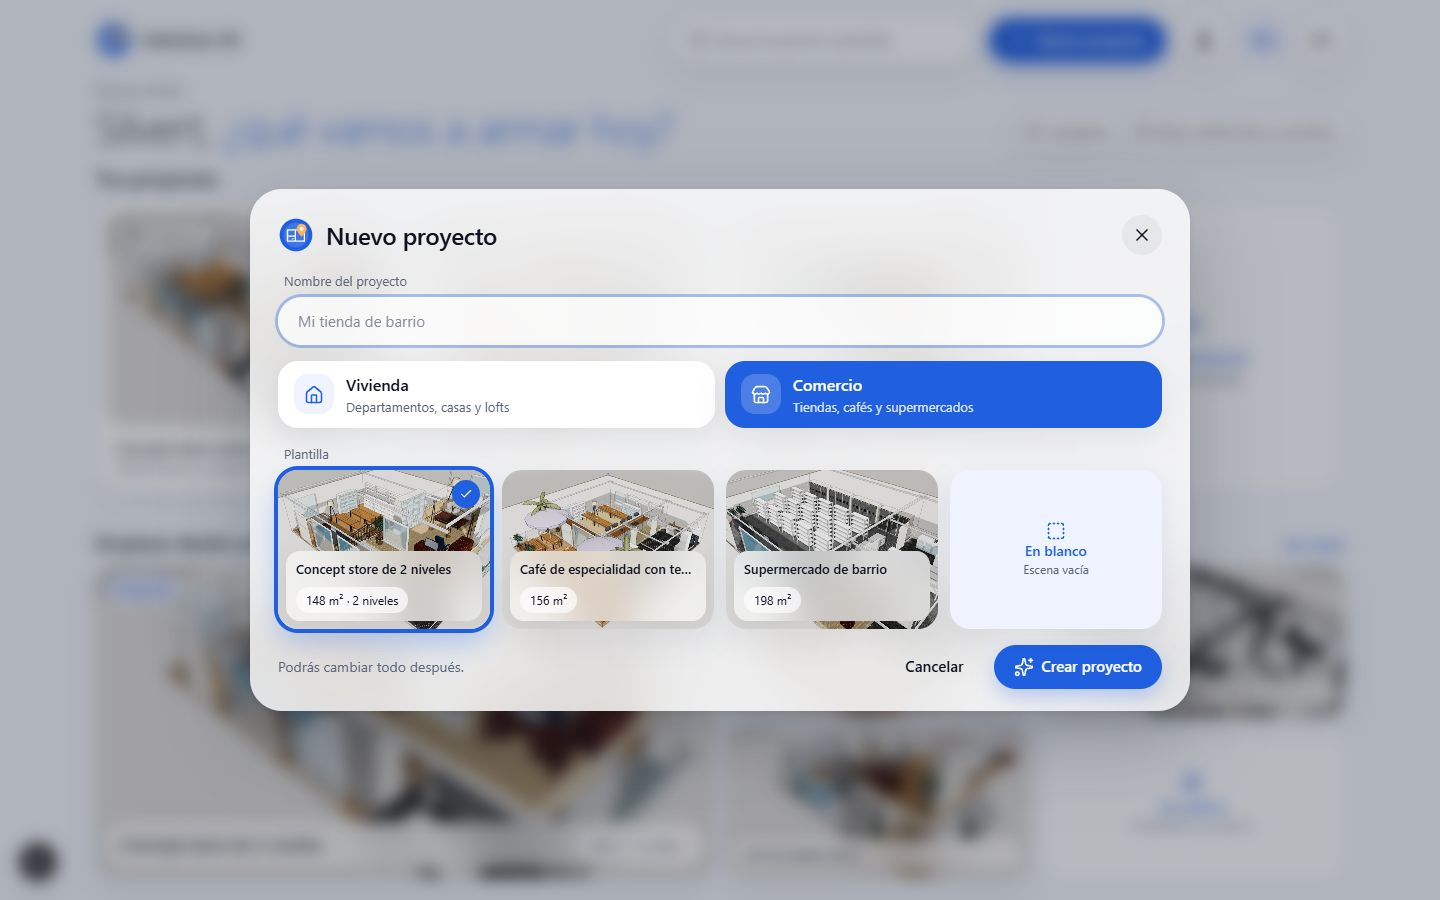
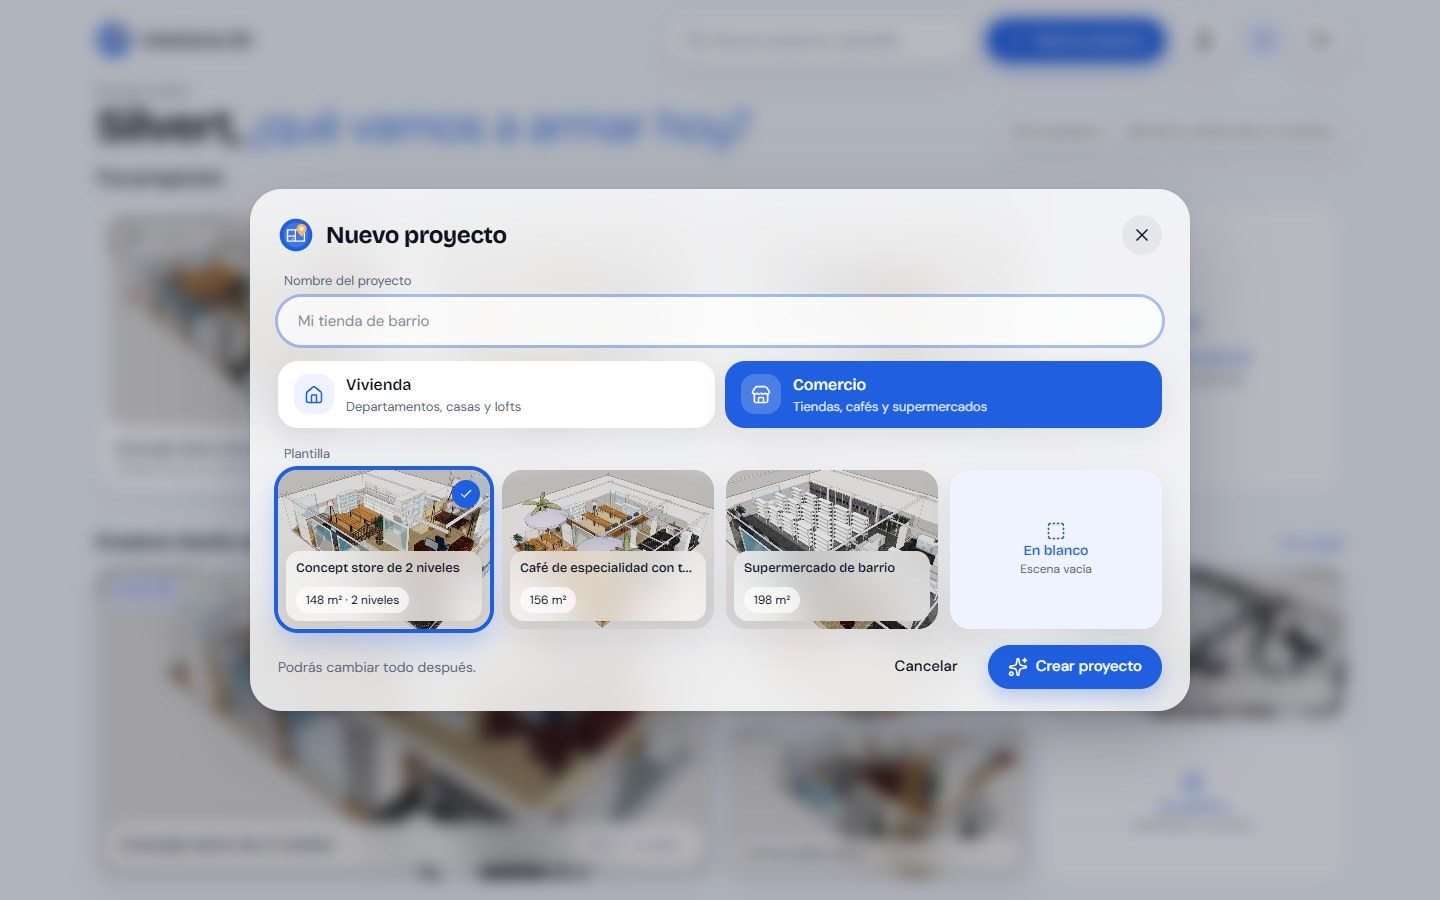
style(ui): tipografía Bricolage Grotesque y DM Sans, nombre en negrita y corrección de la fuente que no se aplicaba
- Causa: --font-app (var(--font-geist)) estaba en un @theme normal, que Tailwind define en :root, y la variable de next/font solo existe en .app-shell; la fuente nunca se aplicaba. Ahora la interfaz usa DM Sans (font-family de .app-shell) y los títulos Bricolage Grotesque (utilidad font-display en @theme inline).
- Nombre de la plataforma y nombre de la persona en el saludo en negrita (700); títulos de sección y de tarjeta con Bricolage.
- APP_NAME (ui-text.ts) centraliza "Interiores 3D": logo, login y título de las páginas.
- Prueba de regresión de la causa raíz y de APP_NAME; se actualizan las capturas de docs/design/implementado.

diff --git a/apps/web/src/components/NewProjectDialog.tsx b/apps/web/src/components/NewProjectDialog.tsx
@@ -75,7 +75,7 @@ export function NewProjectDialog({ open, presetTemplateId, onClose, onPartial }:
       <form className="flex flex-col gap-4 px-7 pb-[22px] pt-[26px]" noValidate onSubmit={np.submit}>
         <header className="flex items-center gap-3">
           <Logo size={36} />
-          <h2 className="text-2xl font-medium tracking-[-0.01em]">Nuevo proyecto</h2>
+          <h2 className="font-display text-2xl font-bold tracking-[-0.02em]">Nuevo proyecto</h2>
           <span className="flex-1" />
           <button
             aria-label="Cerrar"
@@ -129,7 +129,7 @@ export function NewProjectDialog({ open, presetTemplateId, onClose, onPartial }:
                 <Icon aria-hidden size={20} />
               </span>
               <span>
-                <span className="block text-base font-medium">{label}</span>
+                <span className="block font-display text-base font-medium">{label}</span>
                 <span className="block text-[13px] text-ink-muted group-has-[:checked]:text-brand-wash">{hint}</span>
               </span>
             </label>
@@ -167,7 +167,7 @@ export function NewProjectDialog({ open, presetTemplateId, onClose, onPartial }:
               </span>
               <span>
                 <SquareDashed aria-hidden className="mx-auto" size={20} />
-                <span className="block text-sm font-medium">En blanco</span>
+                <span className="block font-display text-sm font-medium">En blanco</span>
                 <span className="block text-xs text-ink-muted">Escena vacía</span>
               </span>
             </label>

diff --git a/apps/web/app/proyectos/page.tsx b/apps/web/app/proyectos/page.tsx
@@ -16,7 +16,7 @@ import { supabaseBrowser } from '@/lib/supabase/browser'
 import { greetingForHour, nameFromEmail, pluralProjects, whenLabel } from '@/lib/ui-text'
 import { useSession } from '@/lib/use-session'
 
-const H2 = 'text-xl font-medium tracking-[-0.01em]'
+const H2 = 'font-display text-[19px] font-bold tracking-[-0.02em]'
 const CHIP = 'chip glass bg-white/70'
 
 export default function ProjectsPage() {
@@ -67,13 +67,14 @@ export default function ProjectsPage() {
         <div className="flex items-end gap-5 pt-1">
           <div>
             <p className="text-sm text-ink-muted">{greetingForHour(now.getHours())}</p>
-            <h1 className="mt-0.5 text-[clamp(28px,3.6vw,44px)] font-light leading-[1.1] tracking-[-0.02em]">
+            <h1 className="mt-0.5 font-display text-[clamp(28px,3.6vw,46px)] font-medium leading-[1.05] tracking-[-0.035em]">
               {name ? (
                 <>
-                  {name}, <span className="text-brand">¿qué vamos a armar hoy?</span>
+                  <span className="font-bold">{name},</span>{' '}
+                  <span className="font-light text-brand">¿qué vamos a armar hoy?</span>
                 </>
               ) : (
-                <span className="text-brand">¿Qué vamos a armar hoy?</span>
+                <span className="font-light text-brand">¿Qué vamos a armar hoy?</span>
               )}
             </h1>
           </div>

diff --git a/apps/web/app/login/page.tsx b/apps/web/app/login/page.tsx
@@ -44,7 +44,7 @@ export default function LoginPage() {
         <div className="relative hidden overflow-hidden rounded-3xl desk:block">
           <img alt="" className="absolute inset-0 size-full object-cover" src="/templates/loft.jpg" />
           <div className="glass absolute inset-x-3.5 bottom-3.5 rounded-[20px] px-[18px] py-4">
-            <p className="text-[26px] font-medium leading-[1.1] tracking-[-0.01em]">Diseña. Prueba. Habita.</p>
+            <p className="font-display text-[26px] font-medium leading-[1.1] tracking-[-0.03em]">Diseña. Prueba. Habita.</p>
             <p className="mt-1.5 text-sm text-ink-muted">Plantillas de viviendas y comercios listas para personalizar en 3D.</p>
           </div>
         </div>
@@ -52,7 +52,7 @@ export default function LoginPage() {
         <form className="flex flex-col justify-center gap-3.5 px-5 py-6 desk:px-[34px] desk:py-2.5" onSubmit={(e) => submit('login', e)}>
           <Logo showName />
           <div>
-            <h1 className="text-[32px] font-normal tracking-[-0.02em]">Te damos la bienvenida</h1>
+            <h1 className="font-display text-[34px] font-medium leading-[1.05] tracking-[-0.035em]">Te damos la bienvenida</h1>
             <p className="mt-1.5 text-ink-muted">Ingresa a tu cuenta para abrir tus proyectos.</p>
           </div>
           <div>

diff --git a/apps/web/app/app-shell.css b/apps/web/app/app-shell.css
@@ -19,7 +19,16 @@
   --shadow-soft: 0 10px 30px rgb(14 18 32 / 0.08);
   --shadow-lift: 0 18px 50px rgb(14 18 32 / 0.14);
   --shadow-brand: 0 8px 20px rgb(31 95 224 / 0.28);
-  --font-app: var(--font-geist), ui-sans-serif, system-ui, sans-serif;
+}
+
+/*
+ * Tipografía: DM Sans para la interfaz y Bricolage Grotesque para títulos (utilidad `font-display`).
+ * Las variables --font-dm y --font-bricolage las define next/font en el elemento `.app-shell` (ver AppShell.tsx),
+ * no en :root. Por eso van en `@theme inline`: la utilidad copia el `var()` y se resuelve en el elemento que la usa.
+ * Dentro de un `@theme` normal el `var()` se evaluaría en :root, donde no existe, y la fuente nunca se aplicaría.
+ */
+@theme inline {
+  --font-display: var(--font-bricolage), ui-sans-serif, system-ui, sans-serif;
 }
 
 /* Escritorio: 900 px o más (la página de proyectos cabe en una pantalla). */
@@ -29,7 +38,7 @@
   min-height: 100dvh;
   background: var(--color-canvas);
   color: var(--color-ink);
-  font-family: var(--font-app);
+  font-family: var(--font-dm), ui-sans-serif, system-ui, sans-serif;
   -webkit-font-smoothing: antialiased;
 }
 

diff --git a/apps/web/src/components/ProjectsSection.tsx b/apps/web/src/components/ProjectsSection.tsx
@@ -25,7 +25,7 @@ export function ProjectsSection({ projects, visible, query, error, now, onNew }:
       <div className={PANEL}>
         <div>
           <Logo className="mx-auto" size={56} />
-          <h3 className="mt-2.5 text-2xl font-medium tracking-[-0.01em]">Empieza tu primer proyecto</h3>
+          <h3 className="mt-2.5 font-display text-2xl font-bold tracking-[-0.02em]">Empieza tu primer proyecto</h3>
           <p className="mx-auto mb-4 mt-1.5 max-w-[440px] text-[15px] text-ink-muted">
             Elige una plantilla de vivienda o de comercio y personalízala con muebles, materiales y niveles.
           </p>
@@ -65,7 +65,7 @@ export function ProjectsSection({ projects, visible, query, error, now, onNew }:
         >
           <span>
             <Plus aria-hidden className="mx-auto" size={30} />
-            <span className="mt-1.5 block font-medium">Nuevo proyecto</span>
+            <span className="mt-1.5 block font-display font-medium">Nuevo proyecto</span>
             <span className="block text-[13px] text-ink-muted">Elige una plantilla</span>
           </span>
         </button>

diff --git a/apps/web/test/app-shell-fonts.test.ts b/apps/web/test/app-shell-fonts.test.ts
@@ -1,0 +1,22 @@
+import { readFileSync } from 'node:fs'
+import { describe, expect, it } from 'vitest'
+
+const css = readFileSync(new URL('../app/app-shell.css', import.meta.url), 'utf8')
+const shell = readFileSync(new URL('../src/components/AppShell.tsx', import.meta.url), 'utf8')
+
+/** Cuerpos de los bloques `@theme` que NO son `inline` (los que Tailwind define en :root). */
+function plainThemeBlocks(source: string): string[] {
+  return [...source.matchAll(/@theme\s*\{([^}]*)\}/g)].map((m) => m[1] ?? '')
+}
+
+describe('tipografía de la interfaz propia', () => {
+  it('no referencia variables de next/font dentro de @theme (se resolverían en :root, donde no existen)', () => {
+    for (const block of plainThemeBlocks(css)) expect(block).not.toMatch(/var\(--font-/)
+  })
+
+  it('cada variable de fuente que usa el CSS la declara AppShell con next/font', () => {
+    const used = new Set([...css.matchAll(/var\((--font-[a-z0-9-]+)\)/g)].map((m) => m[1]))
+    expect(used.size).toBeGreaterThan(0)
+    for (const name of used) expect(shell).toContain(`variable: '${name}'`)
+  })
+})

diff --git a/apps/web/src/components/AppShell.tsx b/apps/web/src/components/AppShell.tsx
@@ -1,9 +1,11 @@
-import { Geist } from 'next/font/google'
+import { Bricolage_Grotesque, DM_Sans } from 'next/font/google'
 import type { ReactNode } from 'react'
 
 // La tipografía y los colores nuevos viven SOLO dentro de este contenedor: el editor de Pascal no lo usa y no cambia.
-const geist = Geist({ subsets: ['latin'], variable: '--font-geist', display: 'swap' })
+// Las variables de next/font existen en este elemento (no en :root); app-shell.css las lee desde aquí.
+const dmSans = DM_Sans({ subsets: ['latin'], variable: '--font-dm', display: 'swap' })
+const bricolage = Bricolage_Grotesque({ subsets: ['latin'], variable: '--font-bricolage', display: 'swap' })
 
 export function AppShell({ children, className = '' }: { children: ReactNode; className?: string }) {
-  return <div className={`app-shell ${geist.variable} ${className}`}>{children}</div>
+  return <div className={`app-shell ${dmSans.variable} ${bricolage.variable} ${className}`}>{children}</div>
 }

diff --git a/apps/web/src/components/Logo.tsx b/apps/web/src/components/Logo.tsx
@@ -1,11 +1,13 @@
+import { APP_NAME } from '@/lib/ui-text'
+
 type Props = { size?: number; showName?: boolean; className?: string }
 
 /** Logo de la marca (`/logo.svg`). Con `showName` lleva al lado el nombre; sin él es decorativo. */
 export function Logo({ size = 36, showName = false, className = '' }: Props) {
   return (
-    <span className={`inline-flex items-center gap-2.5 text-[17px] font-medium tracking-[-0.01em] ${className}`}>
+    <span className={`inline-flex items-center gap-2.5 font-display text-[18px] font-bold tracking-[-0.02em] ${className}`}>
       <img alt="" aria-hidden className="shrink-0" height={size} src="/logo.svg" width={size} />
-      {showName && <span>Interiores 3D</span>}
+      {showName && <span>{APP_NAME}</span>}
     </span>
   )
 }

diff --git a/apps/web/test/ui-text.test.ts b/apps/web/test/ui-text.test.ts
@@ -1,5 +1,6 @@
 import { describe, expect, it } from 'vitest'
 import {
+  APP_NAME,
   greetingForHour,
   initialsFromEmail,
   kindLabel,
@@ -103,5 +104,12 @@ describe('textos de proyectos y plantillas', () => {
   it('templateMeta junta superficie y niveles', () => {
     expect(templateMeta({ areaM2: 108, levels: 2 })).toBe('108 m² · 2 niveles')
     expect(templateMeta({ areaM2: 140, levels: 1 })).toBe('140 m²')
+  })
+})
+
+describe('APP_NAME', () => {
+  it('es un texto no vacío y sin espacios sobrantes (se usa en el logo, el login y el título)', () => {
+    expect(APP_NAME.trim()).toBe(APP_NAME)
+    expect(APP_NAME.length).toBeGreaterThan(0)
   })
 })

diff --git a/apps/web/src/components/TemplateFace.tsx b/apps/web/src/components/TemplateFace.tsx
@@ -36,7 +36,7 @@ export function TemplateFace({ template, size = 'small', badge, selectable = fal
         </span>
       )}
       <span className={`glass absolute flex gap-2 text-left ${INFO[size]}`}>
-        <span className={`min-w-0 truncate font-medium ${size === 'hero' ? 'text-[17px]' : 'text-[13px]'} ${size === 'picker' ? 'max-w-full' : ''}`}>
+        <span className={`min-w-0 truncate font-display font-medium ${size === 'hero' ? 'text-[17px]' : 'text-[13px]'} ${size === 'picker' ? 'max-w-full' : ''}`}>
           {template.name}
         </span>
         {size !== 'small' && <span className="chip bg-white/70">{templateMeta(template)}</span>}

diff --git a/apps/web/src/components/ProjectCard.tsx b/apps/web/src/components/ProjectCard.tsx
@@ -46,7 +46,7 @@ export function ProjectCard({ project, now }: { project: ProjectSummary; now: Da
       </span>
       <span className="flex items-center justify-between gap-3 px-2 pb-1 pt-2.5">
         <span className="min-w-0">
-          <span className="block truncate text-[15px] font-medium">{project.name}</span>
+          <span className="block truncate font-display text-[15px] font-medium">{project.name}</span>
           <span className="mt-px block text-[12.5px] text-ink-muted">{whenLabel('Editado', project.updatedAt, now)}</span>
         </span>
         <span className="inline-flex shrink-0 items-center gap-1.5 text-xs text-ok">

diff --git a/apps/web/src/components/TemplateGallery.tsx b/apps/web/src/components/TemplateGallery.tsx
@@ -40,7 +40,7 @@ export function TemplateGallery({ templates, onPick, onSeeAll }: Props) {
         >
           <span>
             <LayoutGrid aria-hidden className="mx-auto" size={20} />
-            <span className="mt-1 block text-sm font-medium">Ver galería</span>
+            <span className="mt-1 block font-display text-sm font-medium">Ver galería</span>
             <span className="block text-xs text-ink-muted">{TEMPLATES.length} plantillas y en blanco</span>
           </span>
         </button>
